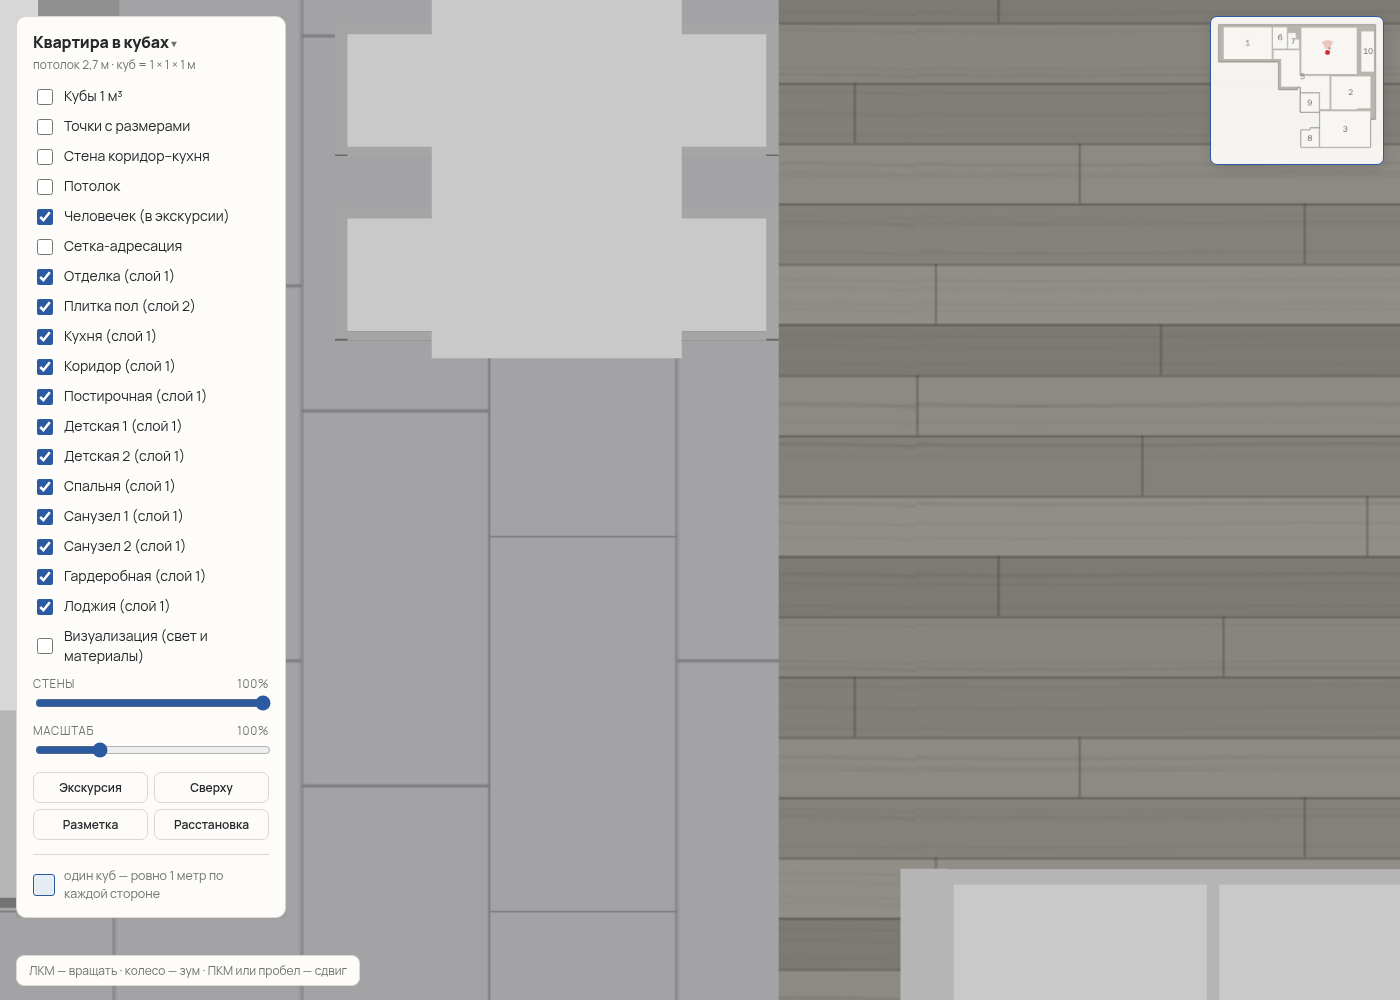
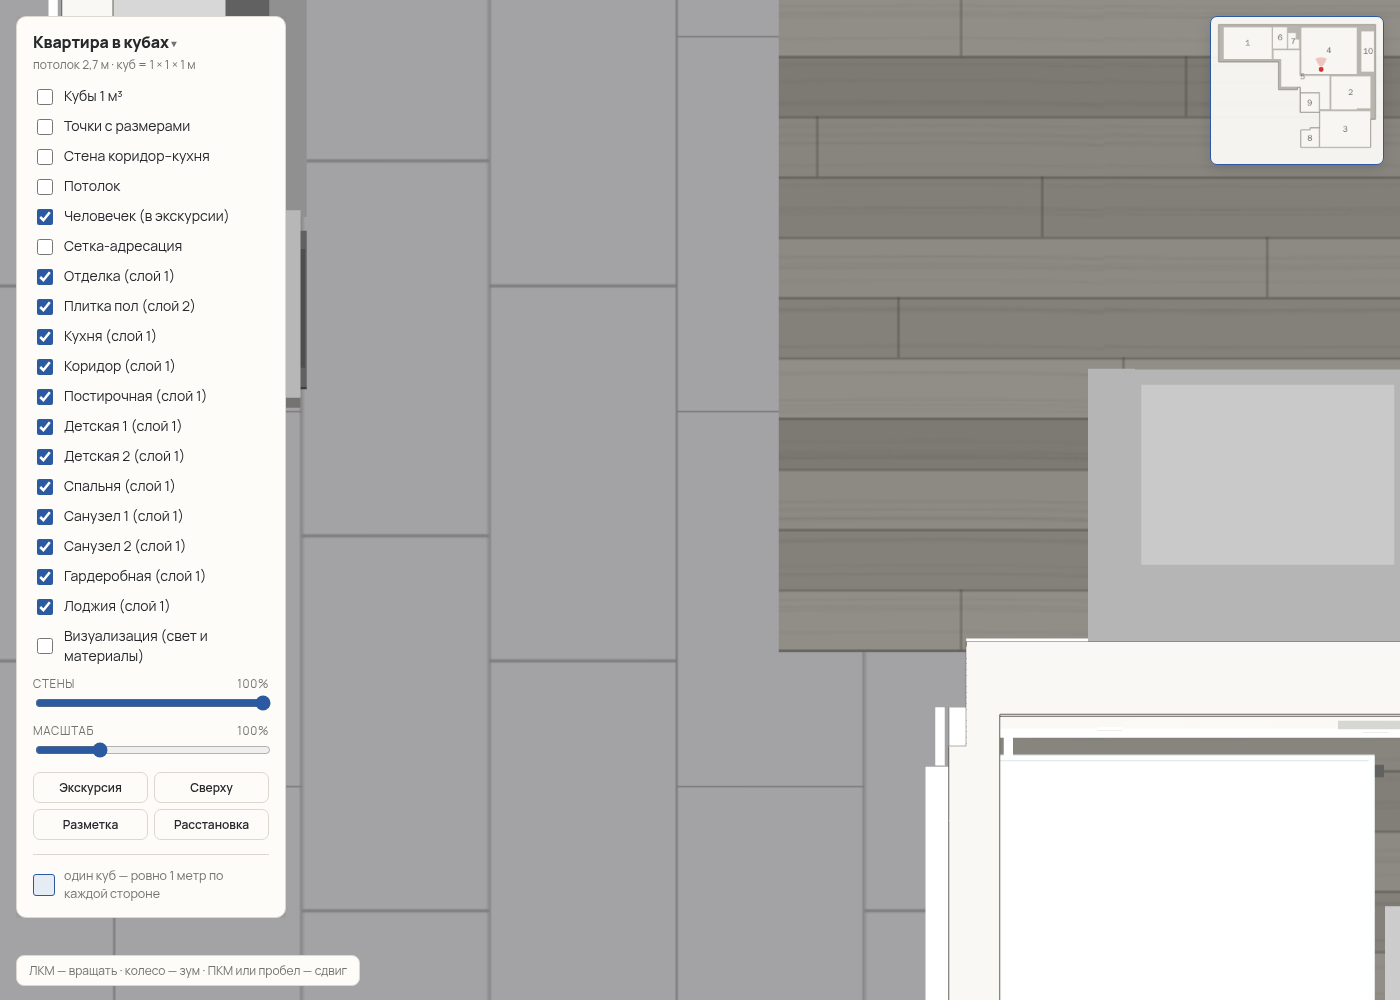
floor-tile: cover the removable wall footprint, kitchen zone one row narrower (x 10.36)

diff --git a/tools/check.js b/tools/check.js
@@ -572,7 +572,7 @@ const { chromium } = require('playwright');
     await page.evaluate(([x, z, th]) => controls.setFPV(x, z, th), [x, z, th]); await page.waitForTimeout(300);
     await page.screenshot({ path: path.join(outDir, name + '.png') });
   }
-  // floor-tile: one mesh in tileGroup at TILE=0.0075, contour area 24.35 (Gauss, without sills), sills come from PLAN.doors
+  // floor-tile: one mesh in tileGroup at TILE=0.0075, contour area 22.21 (Gauss, without sills; includes the removable wall footprint), sills come from PLAN.doors
   // (bath 9 sill follows doors[5]), the checkbox toggles tileGroup only, visualization gives the tile a MeshStandardMaterial
   const ft = await page.evaluate(() => {
     const meshes = []; tileGroup.traverse(o => { if (o.isMesh) meshes.push(o); });
@@ -587,15 +587,15 @@ const { chromium } = require('playwright');
     return { n: meshes.length, area: area(TILE_POLY), y, sillOk, toggle: hid && shown && tileKept, std, sills: TILE_SILLS.length };
   });
   if (ft.n !== 1) problems.push('плитка: мешей в tileGroup ' + ft.n + ' (нужен 1)');
-  if (Math.abs(ft.area - 24.35) > 0.05) problems.push('плитка: площадь контура ' + ft.area.toFixed(2) + ' (ожидалось 24.35)');
+  if (Math.abs(ft.area - 22.21) > 0.05) problems.push('плитка: площадь контура ' + ft.area.toFixed(2) + ' (ожидалось 22.21)');
   if (Math.abs(ft.y - 0.0075) > 1e-6) problems.push('плитка: высота меша ' + ft.y + ' (нужно 0.0075)');
   if (!ft.sillOk || ft.sills !== 7) problems.push('плитка: пороги не по PLAN.doors (санузел 9) или их не 7');
   if (!ft.toggle) problems.push('плитка: галочка «Плитка пол» не переключает слой или трогает отделку');
   if (ft.std !== 'MeshStandardMaterial') problems.push('плитка: в визуализации материал ' + ft.std);
   await page.evaluate(() => { setView('top'); controls.lookDown(); const hh = 7; controls.r = hh / TAN22; controls.target.set(8.2 - ((PANEL_W - MAP_W) / 2) * (2 * hh / innerHeight), 0, 7.4); controls.apply(); });
   await page.waitForTimeout(300); await page.screenshot({ path: path.join(outDir, 'tile-top.png') });
-  await page.evaluate(() => { const hh = 1.6; controls.r = hh / TAN22; controls.target.set(10.9 - ((PANEL_W - MAP_W) / 2) * (2 * hh / innerHeight), 0, 4.2); controls.apply(); });
-  await page.waitForTimeout(300); await page.screenshot({ path: path.join(outDir, 'tile-joint.png') });
+  await page.evaluate(() => { const hh = 1.6; controls.r = hh / TAN22; controls.target.set(10.3 - ((PANEL_W - MAP_W) / 2) * (2 * hh / innerHeight), 0, 5.8); document.getElementById('kwall').checked = false; document.getElementById('kwall').dispatchEvent(new Event('change')); controls.apply(); });
+  await page.waitForTimeout(300); await page.screenshot({ path: path.join(outDir, 'tile-joint.png') }); await page.evaluate(() => { document.getElementById('kwall').checked = true; document.getElementById('kwall').dispatchEvent(new Event('change')); });
   await page.evaluate(() => controls.setFPV(7.0, 7.0, Math.PI / 2 - 0.5)); await page.waitForTimeout(300);
   await page.screenshot({ path: path.join(outDir, 'tile-walk.png') });
   console.log(`  кадров/с: план ${fpsPlain}, визуализация ${fpsViz} (viewport 1400×1000, прогулка в кухне)`);

diff --git a/app.js b/app.js
@@ -766,9 +766,10 @@ var finishGroup=new THREE.Group();
     finishGroup.add(new THREE.Mesh(g,(r.id===7||r.id===8||r.id===9)?whiteMat:lamMat));
   });
 
-  // плитка второго слоя: коридор 5 + кухонная зона комнаты 4 (x 8.23–10.96) + порог двери «K»; контур плитки, план v2
+  // плитка второго слоя: коридор 5 + кухонная зона комнаты 4 (x 8.23–10.36, one tile row short of the wall stub 10.96) + the footprint
+  // of the removable L-wall (x 8.066–8.23 × z 5.516–6.464, z 6.287–6.464 × x 8.23–10.96) so no bare floor shows when it is hidden; контур плитки, план v2
   // (tasks/floor-tile/README.md). Numbers, not PLAN: remap does not move it — recompute by hand if the corridor changes.
-  window.TILE_POLY=[[5.608,4.033],[5.608,4.861],[6.336,4.861],[6.336,7.468],[8.161,7.468],[8.161,7.984],[10.008,7.984],[10.008,9.6],[10.904,9.6],[10.904,6.464],[9.75,6.464],[9.75,6.287],[10.96,6.287],[10.96,1.915],[8.23,1.915],[8.23,6.287],[8.85,6.287],[8.85,6.464],[8.066,6.464],[8.066,4.033]];
+  window.TILE_POLY=[[5.608,4.033],[5.608,4.861],[6.336,4.861],[6.336,7.468],[8.161,7.468],[8.161,7.984],[10.008,7.984],[10.008,9.6],[10.904,9.6],[10.904,6.464],[10.96,6.464],[10.96,6.287],[10.36,6.287],[10.36,1.915],[8.23,1.915],[8.23,5.516],[8.066,5.516],[8.066,4.033]];
   // door thresholds: tile runs into the wall from the corridor face to the leaf axis (PLAN.doors), the entrance door to the outer face
   window.TILE_SILLS=[{d:0,face:5.608},{d:1,face:4.033},{d:2,face:4.033},{d:3,face:10.904},{d:4,face:9.6},{d:5,face:10.008},{d:7,face:7.754,far:7.468}].map(({d,face,far})=>{
     const [cx,cz,o,w]=PLAN.doors[d], a=far!=null?far:(o==='v'?cx:cz), lo=Math.min(a,face), hi=Math.max(a,face);

diff --git a/tasks/floor-tile/README.md b/tasks/floor-tile/README.md
@@ -121,3 +121,7 @@ issue: —
   `doors[5]`, галочка переключает только `tileGroup` (отделка не трогается, и наоборот), в визуализации `MeshStandardMaterial`.
   Скриншоты: `tile-top.png` (вся квартира), `tile-joint.png` (стык у стола, x 10.96), `tile-walk.png` (из прихожей).
 - Порог санузла 9 по текущей двери `[9.95,8.9,"v",0.7]`: x 9.95–10.008 × z 8.55–9.25. Мерцания с ламинатом на кадрах нет.
+
+Правка 2026-09-06 (по `.local/room4_1.png`): кухонная зона на один ряд уже — x 8.23–10.36 (стулья `chair4–6` частично на
+ламинате); контур включает след убираемой Г-стены (x 8.066–8.23 × z 5.516–6.464 и z 6.287–6.464 до x 10.96) — стена по
+умолчанию скрыта, и под ней был виден черновой пол. Площадь контура без порогов — 22.21 м², тест обновлён.
